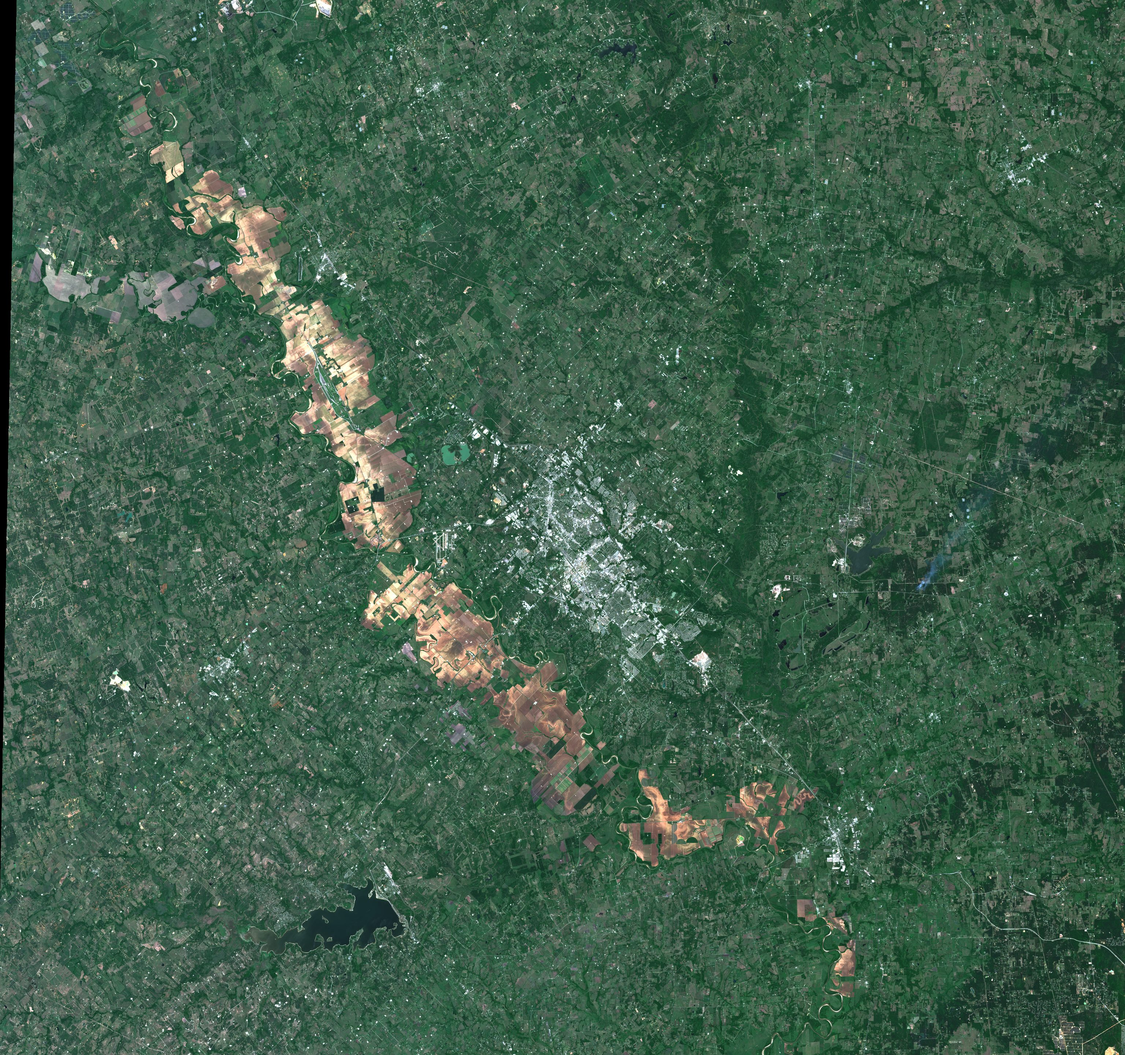
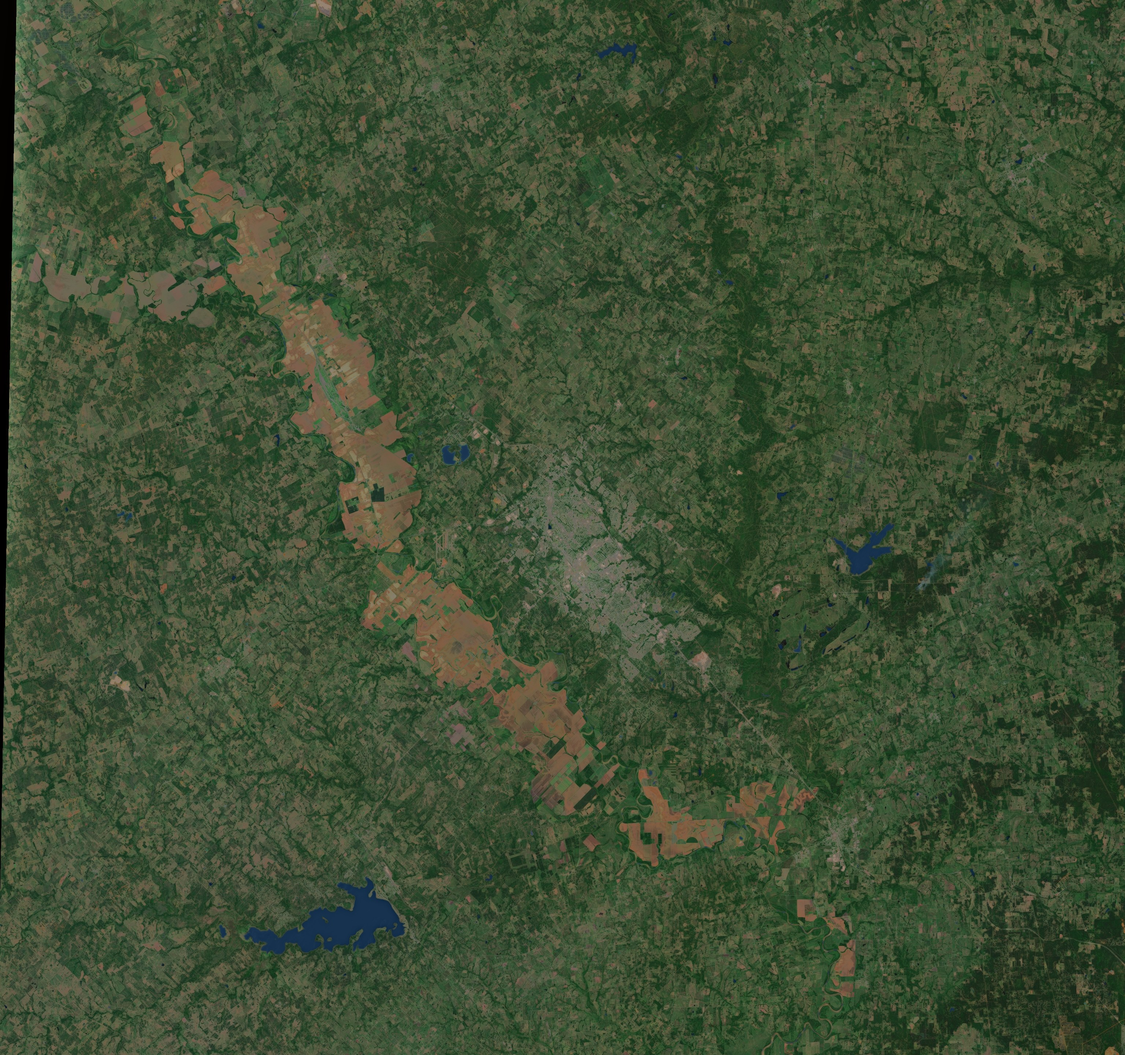
Natural colours through the dive: no white haze, matching land and water
- Regrade region.jpg and lake-sat.jpg to the continent mosaic's palette
  (low-frequency colour match), pull bright roofs/roads back to their
  surroundings, and paint lake water the same deep navy as the live 3D lake.
- Remove the white aerial haze on the globe and the white distance fog on
  the ground; far ground now fades to land colour.
- The lake from above uses the photo's (now navy) water, so it blends into
  the rippled water with no colour jump.

Claude-Session: https://claude.ai/code/session_01Adx9ptTyezDg4nYTDkQDWK

diff --git a/TideCast/Backbone/tidecast.js b/TideCast/Backbone/tidecast.js
@@ -207,7 +207,6 @@ const earthMat = new THREE.ShaderMaterial({
       float fres = pow(1.0 - max(dot(N, V), 0.0), 3.6);
       vec3 atm = mix(vec3(0.32, 0.58, 1.0), vec3(1.0, 0.68, 0.48), smoothstep(0.3, 1.0, dot(N, L)));
       col = mix(col, atm * (lit * 0.95 + 0.08), fres * 0.45);
-      col = mix(col, vec3(0.62, 0.72, 0.84), uHaze * 0.08);            // aerial perspective
 
       // Your location pings, slowly: a scroll-driven wave that travels out to the nearest water,
       // plus ambient sonar pulses sized to the view.
@@ -526,13 +525,12 @@ const groundMat = new THREE.ShaderMaterial({
       vec3 Ls = normalize(vec3(0.35, 0.7, -0.6));
       live += vec3(0.75, 0.85, 0.95) * pow(max(dot(Rv, Ls), 0.0), 380.0) * 0.35;
       float detail = 1.0 - smoothstep(250.0, 4500.0, uCamH);
-      vec3 waterCol = mix(land * 1.12 + vec3(0.0, 0.01, 0.015), live, detail);
+      vec3 waterCol = mix(land, live, detail);       // the photo's water is already this deep blue
       vec3 col = mix(land, waterCol, wet);
 
-      // Haze: the globe's aerial perspective high up, distance haze near the water.
-      col = mix(col, vec3(0.62, 0.72, 0.84), 0.08 * smoothstep(400.0, 9000.0, uCamH));
+      // No white haze: far ground just settles into the land's own colour.
       float dist = length(uCam - vW);
-      col = mix(col, vec3(0.8, 0.88, 0.95), 1.0 - exp(-max(dist - uCamH * 1.05, 0.0) / 5000.0));
+      col = mix(col, vec3(0.06, 0.075, 0.045), 1.0 - exp(-max(dist - uCamH * 1.05 - 8000.0, 0.0) / 20000.0));
       gl_FragColor = vec4(col, 1.0);
       #include <colorspace_fragment>
     }`,
